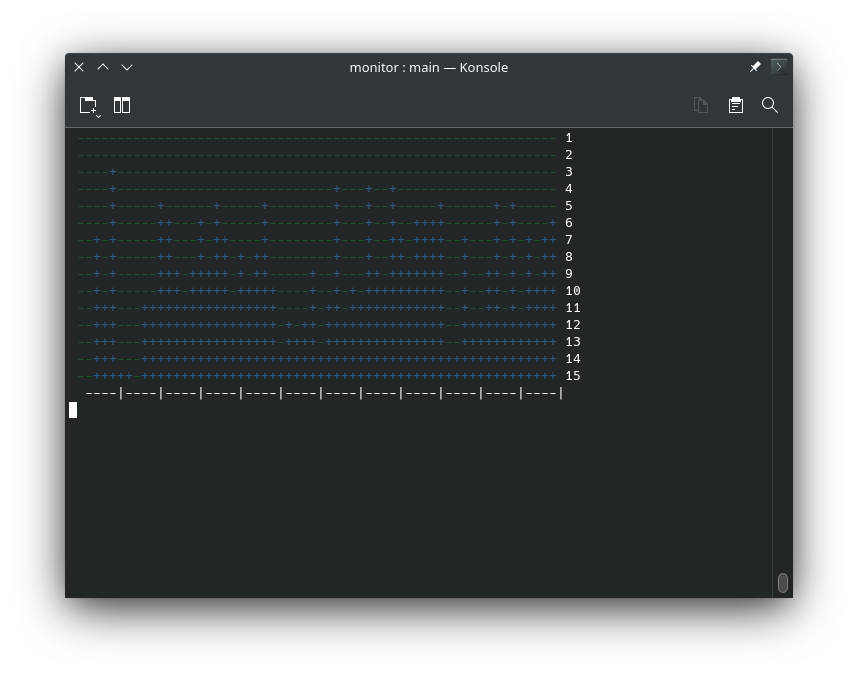
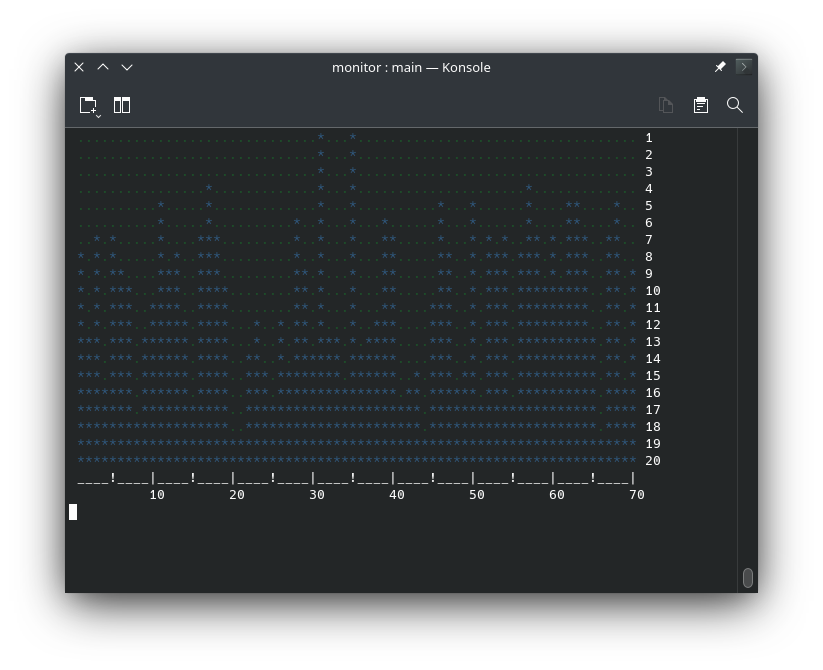
Options

diff --git a/src/lib.rs b/src/lib.rs
@@ -6,72 +6,76 @@ pub struct Monitor{
     max_value: i32,
     width: i32,
     height: i32,
-    primary_character: String,
-    secondary_character: String,
-    primary_rgb_color: String,
-    secondary_rgb_color: String,
+    primary_character: char,
+    new_primary_character: char,
+    primary_rgb_color: Option<(u8, u8, u8)>,
+    secondary_character: char,
+    new_secondary_character: char,
+    secondary_rgb_color: Option<(u8, u8, u8)>,
 }
 
 impl Monitor {
-    pub fn new(
-        width: i32,
-        height: i32,
-        primary_character: Option<char>,
-        secondary_character: Option<char>,
-        primary_rgb_color: Option<(u8, u8, u8)>,
-        secondary_rgb_color: Option<(u8, u8, u8)>,
-    ) -> Monitor {
+    pub fn new() -> Monitor {
         // History
         let mut history = Vec::new();
-        for _ in 0..width {
+        for _ in 0..60 {
             history.push(0);
-        }
-
-        // Max value
-        let max_value = height; 
-
-        // Primary character
-        let mut primary_char = String::new();
-        match primary_character {
-            Some(c) => primary_char.push(c),
-            None => primary_char.push('*'),
-        }
-
-        // Secondary character
-        let mut secondary_char = String::new();
-        match secondary_character {
-            Some(c) => secondary_char.push(c),
-            None => secondary_char.push('-'),
-        }
-        // print!("\x1B[0m"
-        // Primary RGB color
-        let mut primary_rgb = String::new();
-        match primary_rgb_color {
-            Some(c) => primary_rgb.push_str(format!("\x1b[38;2;{};{};{}m", c.0, c.1, c.2).as_str()),
-            None => primary_rgb.push_str("\x1B[0m"),
-        }
-
-        // Secondary RGB color
-        let mut secondary_rgb = String::new();
-        match secondary_rgb_color {
-            Some(c) => secondary_rgb.push_str(format!("\x1b[38;2;{};{};{}m", c.0, c.1, c.2).as_str()),
-            None => secondary_rgb.push_str("\x1B[0m"),
         }
 
         Monitor {
             history,
-            max_value,
-            width,
-            height,
-            primary_character: primary_char,
-            secondary_character: secondary_char,
-            primary_rgb_color: primary_rgb,
-            secondary_rgb_color: secondary_rgb,
-
+            max_value: 15,
+            width: 60,
+            height: 15,
+            primary_character: '#',
+            new_primary_character: '#',
+            primary_rgb_color: None,
+            secondary_character: '-',
+            new_secondary_character: '-',
+            secondary_rgb_color: None,
         }
     }
 
-    pub fn status(&mut self, mut value: i32) -> Vec<String> {
+    pub fn set_primary_character(
+            &mut self,
+            character: Option<char>,
+            rgb_color: Option<(u8, u8, u8)>,
+        ) {
+        if let Some(c) = character {
+            self.new_primary_character = c;
+        }
+        self.primary_rgb_color = rgb_color;
+    }
+
+    pub fn set_secondary_character(
+            &mut self,
+            character: Option<char>,
+            rgb_color: Option<(u8, u8, u8)>,
+        ) {
+        if let Some(c) = character { 
+            self.new_secondary_character = c;
+        }
+        self.secondary_rgb_color = rgb_color;
+    }
+
+    pub fn characters(&self) -> (char, char) {
+        (self.primary_character, self.secondary_character)
+    }
+
+    pub fn set_dimensions(&mut self, width: i32, height: i32) {
+        self.width = width;
+        self.height = height;
+        self.max_value = height;
+        for _ in 0..width {
+            self.history.push(0);
+        }
+    }
+
+    pub fn dimensions(&self) -> (i32, i32) {
+        (self.width, self.height)
+    }
+
+    pub fn build_chart(&mut self, mut value: i32) -> Vec<String> {
         // Update value for height%. Ex:
         // 1%(max(1000) / height(10)) = 100 | value((500) / 1%(100)) = 5 | 5 = 50%(height(10))
         value = value / (self.max_value / self.height);
@@ -99,13 +103,13 @@ impl Monitor {
 
             // Update with primary char: 3/5 = *** | 5/5 = *****
             if value > 0 {
-                for _ in 0..value {draw_value.push_str(&self.primary_character);}
+                for _ in 0..value {draw_value.push(self.primary_character);}
             }
 
             // Update with secondary char: 3/5 = ***-- | 0/5 = -----
             if value < self.height {
                 let plus = self.height - value;
-                for _ in 0..plus {draw_value.push_str(&self.secondary_character);}
+                for _ in 0..plus {draw_value.push(self.secondary_character);}
             }
 
             // Update draw model
@@ -132,18 +136,37 @@ impl Monitor {
             let mut new_line = String::new();
             
             for line_str in &draw_model {
+                // Primary color
+                let mut primary_color = String::new();
+                if let Some(color) = &self.primary_rgb_color {
+                    primary_color = format!(
+                        "\x1b[38;2;{};{};{}m", &color.0, &color.1, &color.2);
+                }
+
+                // Secondary color
+                let mut secondary_color = String::new();
+                if let Some(color) = &self.secondary_rgb_color {
+                    secondary_color = format!(
+                        "\x1b[38;2;{};{};{}m", &color.0, &color.1, &color.2);
+                }
+
+                // Character
                 let reverse_string: String = line_str.chars().rev().collect();
-                
-                let char_ = &reverse_string.as_str()[n as usize..(n as usize + 1)];
+                let txt = &reverse_string[n as usize..(n as usize + 1)];
                 let mut new_char = String::new();
 
-                if char_ == self.primary_character {
+                // Format
+                if txt == format!("{}", self.primary_character) {
                     new_char.push_str(
-                        format!("{}{}\x1B[0m", self.primary_rgb_color, char_).as_str());
+                        format!("{}{}\x1B[0m", primary_color, self.new_primary_character)
+                    .as_str());
                 } else {
                     new_char.push_str(
-                        format!("{}{}\x1B[0m", self.secondary_rgb_color, char_).as_str());
+                        format!("{}{}\x1B[0m", secondary_color, self.new_secondary_character)
+                    .as_str());
                 }
+
+                // Update
                 new_line.push_str(new_char.as_str());
             }
             list_model[n as usize].push_str(&new_line);

diff --git a/examples/main.rs b/examples/main.rs
@@ -9,45 +9,45 @@ fn main() {
 }
 
 fn simple_monitor() {
-    // Monitor settings
-    let width = 60;
-    let height = 15;
-    let char_1 = Some('#');             // Default is *
-    let char_2 = None;                  // Default is -
-    let color_1 = Some((68, 131, 73));  // Default is system/terminal color
-    let color_2 = Some((40, 50, 66));   // Default is system/terminal color
-
-    // Monitor instance
-    let mut monit = monitor::Monitor::new(width, height, char_1, char_2, color_1, color_2);
+    let mut monit = monitor::Monitor::new();  // Monitor instance
 
     // A loop controls the monitor display time
     for _ in 0..60 {  // If 'sleep' below is 1 second, then using 60 here is 1 minute in loop
         print!("{esc}[2J{esc}[1;1H", esc = 27 as char); // Clear terminal
 
-        // Utility to emulate real-time value
-        let mut bitcoin_value = monitor::ValueEmulator::new(0, height);
+        // Utility to emulate real-time value:             (   MIN and MAX values  )
+        let mut bitcoin_value = monitor::ValueEmulator::new(0, monit.dimensions().1);
         
-        // Show monitor
-        for monitor_lines in monit.status(bitcoin_value.value()) {
-            println!("{}", monitor_lines);
+        for monitor_lines in monit.build_chart(bitcoin_value.value()) {
+            println!("{}", monitor_lines);  // Show monitor
         }
         sleep(Duration::from_millis(100)); // Slow down display (1 second is 1000)
     }
 }
 
 fn detailed_monitor() {
-    let mut monit = monitor::Monitor::new(  // Instance
-        60, 15, Some('+'), None, Some((47, 87, 124)), Some((29, 79, 41)));
+    // Instance
+    let mut monit = monitor::Monitor::new();
+    // Monitor settings
+    monit.set_primary_character(Some('*'), Some((47, 87, 124)));
+    monit.set_secondary_character(Some('.'), Some((29, 79, 41)));
+    monit.set_dimensions(70, 20);  // Width (columns) and height (lines)
 
-    for _ in 0..60 {  // Display time
+    for _ in 0..100 {  // Display time
         print!("{esc}[2J{esc}[1;1H", esc = 27 as char);  // Clear terminal
 
-        let mut bitcoin_value = monitor::ValueEmulator::new(0, 15);  // Real-time value
+        // Utility to emulate real-time value:             (   MIN and MAX values  )
+        let mut bitcoin_value = monitor::ValueEmulator::new(0, monit.dimensions().1);
 
-        for (n, m) in monit.status(bitcoin_value.value()).iter().enumerate() {
-            println!(" {} {}", m, n + 1);  // Show row and right decoration
+        // Show monitor row and right decoration
+        for (n, m) in monit.build_chart(bitcoin_value.value()).iter().enumerate() {
+            println!(" {} {}", m, n + 1);
         }
-        println!("  {}", "----|".repeat(12 as usize));  // Bottom decoration
+        // Bottom decoration
+        println!(" {}", "____!____|".repeat(7 as usize));
+        let mut n = 10; print!("  "); for _ in 0..7 {print!("        {}", n); n += 10;}
+
+        println!();
         sleep(Duration::from_millis(100));
     }
 }

diff --git a/README.md b/README.md
@@ -13,50 +13,49 @@ use std::thread::sleep;
 use monitor;
 
 fn main() {
-    // Monitor settings
-    let width = 60;
-    let height = 15;
-    let char_1 = Some('#');             // Default is *
-    let char_2 = None;                  // Default is -
-    let color_1 = Some((68, 131, 73));  // Default is system/terminal color
-    let color_2 = Some((40, 50, 66));   // Default is system/terminal color
-
-    // Monitor instance
-    let mut monit = monitor::Monitor::new(width, height, char_1, char_2, color_1, color_2);
+    let mut monit = monitor::Monitor::new();  // Monitor instance
 
     // A loop controls the monitor display time
     for _ in 0..60 {  // If 'sleep' below is 1 second, then using 60 here is 1 minute in loop
         print!("{esc}[2J{esc}[1;1H", esc = 27 as char); // Clear terminal
 
-        // Utility to emulate real-time value
-        let mut bitcoin_value = monitor::ValueEmulator::new(0, height);
+        // Utility to emulate real-time value:             (   MIN and MAX values  )
+        let mut bitcoin_value = monitor::ValueEmulator::new(0, monit.dimensions().1);
         
-        // Show monitor
-        for monitor_lines in monit.status(bitcoin_value.value()) {
-            println!("{}", monitor_lines);
+        for monitor_lines in monit.build_chart(bitcoin_value.value()) {
+            println!("{}", monitor_lines);  // Show monitor
         }
         sleep(Duration::from_millis(100)); // Slow down display (1 second is 1000)
     }
 }
-
 ```
 ![Image](data/screenshot_01.png "screenshot")
 
 Drawing the details
 
 ```rust
-let mut monit = monitor::Monitor::new(  // Instance
-    60, 15, Some('+'), None, Some((47, 87, 124)), Some((29, 79, 41)));
+// Instance
+let mut monit = monitor::Monitor::new();
+// Monitor settings
+monit.set_primary_character(Some('*'), Some((47, 87, 124)));
+monit.set_secondary_character(Some('.'), Some((29, 79, 41)));
+monit.set_dimensions(70, 20);  // Width (columns) and height (lines)
 
-for _ in 0..60 {  // Display time
+for _ in 0..100 {  // Display time
     print!("{esc}[2J{esc}[1;1H", esc = 27 as char);  // Clear terminal
 
-    let mut bitcoin_value = monitor::ValueEmulator::new(0, 15);  // Real-time value
+    // Utility to emulate real-time value:             (   MIN and MAX values  )
+    let mut bitcoin_value = monitor::ValueEmulator::new(0, monit.dimensions().1);
 
-    for (n, m) in monit.status(bitcoin_value.value()).iter().enumerate() {
-        println!(" {} {}", m, n + 1);  // Show row and right decoration
+    // Show monitor row and right decoration
+    for (n, m) in monit.build_chart(bitcoin_value.value()).iter().enumerate() {
+        println!(" {} {}", m, n + 1);
     }
-    println!("  {}", "----|".repeat(12 as usize));  // Bottom decoration
+    // Bottom decoration
+    println!(" {}", "____!____|".repeat(7 as usize));
+    let mut n = 10; print!("  "); for _ in 0..7 {print!("        {}", n); n += 10;}
+
+    println!();
     sleep(Duration::from_millis(100));
 }
 ```
